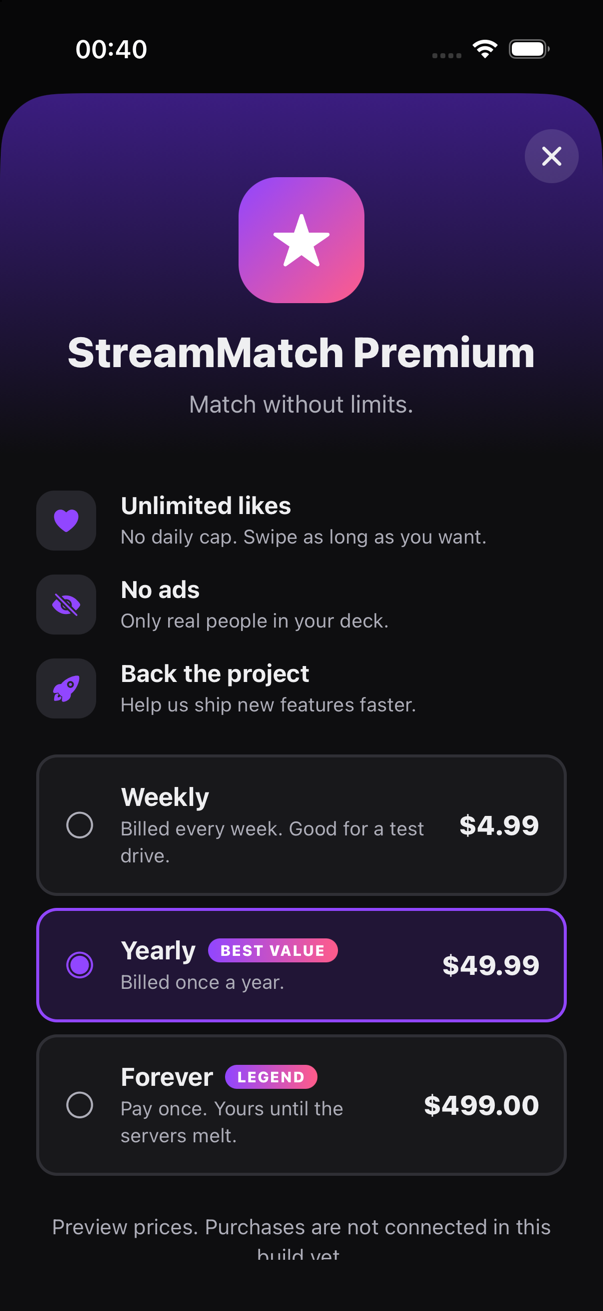
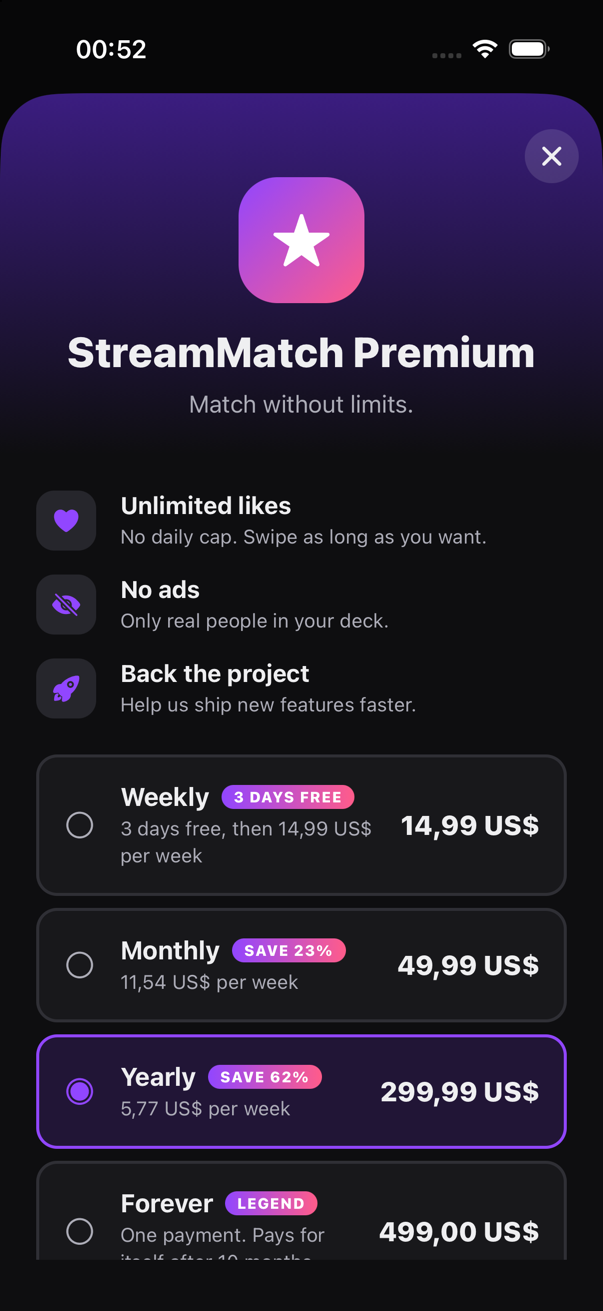
Paywall: monthly plan, computed savings and free-trial display
Plans are compared by cost per week from the store prices, the
lifetime plan shows its break-even against monthly, and a zero-price
introductory offer is shown as a free trial. Documents billing setup
and Google Play publishing.

Changed region(s): [[0.0597, 0.5797, 0.9552, 0.9764], [0.597, 0.9153, 0.8955, 0.9458], [0.1194, 0.0305, 0.2388, 0.061]]

diff --git a/src/app/paywall.tsx b/src/app/paywall.tsx
@@ -26,22 +26,91 @@ const BENEFITS = [
   { icon: 'rocket', title: 'Back the project', text: 'Help us ship new features faster.' },
 ] as const;
 
-const PLAN_COPY: Record<PlanKind, { name: string; note: string; badge?: string }> = {
-  weekly: { name: 'Weekly', note: 'Billed every week. Good for a test drive.' },
-  annual: { name: 'Yearly', note: 'Billed once a year.', badge: 'BEST VALUE' },
-  lifetime: { name: 'Forever', note: 'Pay once. Yours until the servers melt.', badge: 'LEGEND' },
-  other: { name: 'Premium', note: '' },
+const PLAN_NAMES: Record<PlanKind, string> = {
+  weekly: 'Weekly',
+  monthly: 'Monthly',
+  annual: 'Yearly',
+  lifetime: 'Forever',
+  other: 'Premium',
 };
 
 // Shown only while the store is not connected, so the screen can be reviewed.
 // Real prices always come from the App Store / Google Play.
-const PREVIEW_PLANS: Plan[] = [
-  { id: 'preview_weekly', kind: 'weekly', price: '$4.99' },
-  { id: 'preview_annual', kind: 'annual', price: '$49.99' },
-  { id: 'preview_lifetime', kind: 'lifetime', price: '$499.00' },
+const PREVIEW: [PlanKind, number, number | null][] = [
+  ['weekly', 14.99, 3],
+  ['monthly', 49.99, null],
+  ['annual', 299.99, null],
+  ['lifetime', 499, null],
 ];
 
-const ORDER: PlanKind[] = ['weekly', 'annual', 'lifetime', 'other'];
+const ORDER: PlanKind[] = ['weekly', 'monthly', 'annual', 'lifetime', 'other'];
+
+const WEEKS_PER_YEAR = 52;
+/** How many weeks one payment of a renewing plan covers. */
+const WEEKS_COVERED: Partial<Record<PlanKind, number>> = {
+  weekly: 1,
+  monthly: WEEKS_PER_YEAR / 12,
+  annual: WEEKS_PER_YEAR,
+};
+
+const RENEWS: Partial<Record<PlanKind, string>> = {
+  weekly: 'per week',
+  monthly: 'per month',
+  annual: 'per year',
+};
+
+const perWeek = (plan: Plan) => {
+  const weeks = WEEKS_COVERED[plan.kind];
+  return weeks === undefined ? null : plan.amount / weeks;
+};
+
+const money = (amount: number, currency: string) =>
+  new Intl.NumberFormat(undefined, { style: 'currency', currency }).format(amount);
+
+const PREVIEW_PLANS: Plan[] = PREVIEW.map(([kind, amount, trialDays]) => ({
+  id: `preview_${kind}`,
+  kind,
+  price: money(amount, 'USD'),
+  amount,
+  currency: 'USD',
+  trialDays,
+}));
+
+/**
+ * The small print and badge for a plan, worked out from the store prices:
+ * renewing plans are compared by cost per week against the priciest one,
+ * and the one-time plan against how long the monthly plan would take to cost the same.
+ */
+function describe(plan: Plan, plans: Plan[]): { note: string; badge?: string } {
+  if (plan.kind === 'lifetime') {
+    const monthly = plans.find((other) => other.kind === 'monthly');
+    const months = monthly ? Math.ceil(plan.amount / monthly.amount) : null;
+    return {
+      note:
+        months === null
+          ? 'One payment. No renewals, ever.'
+          : `One payment. Pays for itself after ${months} months.`,
+      badge: 'LEGEND',
+    };
+  }
+  const weekly = perWeek(plan);
+  if (weekly === null) return { note: '' };
+  const highest = Math.max(...plans.map((other) => perWeek(other) ?? 0));
+  const saving = Math.round((1 - weekly / highest) * 100);
+  if (plan.trialDays !== null) {
+    return {
+      note: `${plan.trialDays} days free, then ${plan.price} ${RENEWS[plan.kind] ?? ''}`.trim(),
+      badge: `${plan.trialDays} DAYS FREE`,
+    };
+  }
+  return {
+    note:
+      plan.kind === 'weekly'
+        ? 'Billed every week.'
+        : `${money(weekly, plan.currency)} per week`,
+    badge: saving > 0 ? `SAVE ${saving}%` : undefined,
+  };
+}
 
 const close = () => (router.canGoBack() ? router.back() : router.replace('/'));
 
@@ -148,7 +217,7 @@ export default function Paywall() {
           ) : (
             <View accessibilityRole="radiogroup" style={styles.plans}>
               {plans.map((plan) => {
-                const copy = PLAN_COPY[plan.kind];
+                const copy = describe(plan, plans);
                 const isSelected = plan.id === selected;
                 return (
                   <Pressable
@@ -164,7 +233,7 @@ export default function Paywall() {
                     />
                     <View style={styles.planText}>
                       <View style={styles.planNameRow}>
-                        <Text style={styles.planName}>{copy.name}</Text>
+                        <Text style={styles.planName}>{PLAN_NAMES[plan.kind]}</Text>
                         {copy.badge !== undefined && (
                           <LinearGradient
                             colors={GRADIENT}
@@ -203,7 +272,11 @@ export default function Paywall() {
                     <ActivityIndicator color="#fff" />
                   ) : (
                     <Text style={styles.ctaLabel}>
-                      {chosen ? `Continue · ${chosen.price}` : 'Continue'}
+                      {chosen === undefined
+                        ? 'Continue'
+                        : chosen.trialDays !== null
+                          ? `Start ${chosen.trialDays}-day free trial`
+                          : `Continue · ${chosen.price}`}
                     </Text>
                   )}
                 </LinearGradient>
@@ -222,8 +295,9 @@ export default function Paywall() {
               </Pressable>
 
               <Text style={styles.legal}>
-                Weekly and yearly plans renew automatically until cancelled. Cancel any time in your
-                store account settings. The Forever plan is a one-time purchase.
+                Weekly, monthly and yearly plans renew automatically until cancelled. Cancel any time
+                in your store account settings. A free trial becomes a paid subscription unless cancelled
+                at least 24 hours before it ends. The Forever plan is a one-time purchase.
               </Text>
             </>
           )}

diff --git a/src/lib/purchases.ts b/src/lib/purchases.ts
@@ -1,11 +1,22 @@
 import { Platform } from 'react-native';
 import Purchases, { type PurchasesPackage } from 'react-native-purchases';
 
-export type PlanKind = 'weekly' | 'annual' | 'lifetime' | 'other';
-export type Plan = { id: string; kind: PlanKind; price: string };
+export type PlanKind = 'weekly' | 'monthly' | 'annual' | 'lifetime' | 'other';
+export type Plan = {
+  id: string;
+  kind: PlanKind;
+  /** Localized price from the store, e.g. "$49.99". */
+  price: string;
+  /** The same price as a number, for comparing plans. */
+  amount: number;
+  currency: string;
+  /** Length of the free trial the store offers on this plan, if any. */
+  trialDays: number | null;
+};
 
 const KINDS: Record<string, PlanKind> = {
   WEEKLY: 'weekly',
+  MONTHLY: 'monthly',
   ANNUAL: 'annual',
   LIFETIME: 'lifetime',
 };
@@ -23,6 +34,15 @@ export const manageSubscriptionUrl = Platform.select({
   ios: 'https://apps.apple.com/account/subscriptions',
   default: 'https://play.google.com/store/account/subscriptions',
 });
+
+const DAYS_IN: Record<string, number> = { DAY: 1, WEEK: 7, MONTH: 30, YEAR: 365 };
+
+/** A free trial is an introductory offer that costs nothing. */
+function trialDaysOf(pkg: PurchasesPackage) {
+  const intro = pkg.product.introPrice;
+  if (!intro || intro.price !== 0) return null;
+  return intro.periodNumberOfUnits * (DAYS_IN[intro.periodUnit] ?? 0) || null;
+}
 
 let configured = false;
 const packages = new Map<string, PurchasesPackage>();
@@ -48,6 +68,9 @@ export async function loadPlans(): Promise<Plan[]> {
       id: pkg.identifier,
       kind: KINDS[pkg.packageType] ?? 'other',
       price: pkg.product.priceString,
+      amount: pkg.product.price,
+      currency: pkg.product.currencyCode,
+      trialDays: trialDaysOf(pkg),
     };
   });
 }

diff --git a/src/lib/purchases.web.ts b/src/lib/purchases.web.ts
@@ -1,6 +1,6 @@
 // In-app purchases only exist in the native apps.
-export type PlanKind = 'weekly' | 'annual' | 'lifetime' | 'other';
-export type Plan = { id: string; kind: PlanKind; price: string };
+export type PlanKind = 'weekly' | 'monthly' | 'annual' | 'lifetime' | 'other';
+export type Plan = { id: string; kind: PlanKind; price: string; amount: number; currency: string; trialDays: number | null };
 
 export const purchasesAvailable = false;
 export const manageSubscriptionUrl = 'https://play.google.com/store/account/subscriptions';

diff --git a/site/src/pages/Home.tsx b/site/src/pages/Home.tsx
@@ -45,7 +45,7 @@ const PLANS = [
   {
     name: 'Premium',
     tagline: 'For people who swipe a lot',
-    perks: ['Unlimited likes', 'No ads', 'Everything in Free', 'Weekly, yearly — or pay once and keep it forever'],
+    perks: ['Unlimited likes', 'No ads', 'Everything in Free', 'Weekly with a free trial, monthly, yearly — or pay once and keep it forever'],
     highlighted: true,
   },
 ]

diff --git a/docs/README.md b/docs/README.md
@@ -9,6 +9,7 @@ szukanie streamerów w okolicy, dopasowania i czat na żywo.
 - [Model danych](#model-danych)
 - [Funkcje backendu](#funkcje-backendu)
 - [Premium, limit polubień i reklamy](#premium-limit-polubień-i-reklamy)
+- [Publikacja w Google Play](#publikacja-w-google-play)
 - [Strona WWW](#strona-www)
 - [Konfiguracja](#konfiguracja)
 - [Budowanie i uruchamianie](#budowanie-i-uruchamianie)
@@ -66,15 +67,20 @@ Zrzuty z natywnej aplikacji iOS (symulator iPhone 17), na danych testowych.
 
 ### Premium i reklamy
 
-| Reklama w talii | Ekran Premium |
-|:-:|:-:|
-| <img src="images/11-ad.png" width="240"> | <img src="images/12-paywall.png" width="240"> |
-| `src/components/ad-card.tsx` | `src/app/paywall.tsx` |
+| Reklama w talii | Ekran Premium | Ekran Premium — plany |
+|:-:|:-:|:-:|
+| <img src="images/11-ad.png" width="240"> | <img src="images/12-paywall.png" width="240"> | <img src="images/13-paywall-bottom.png" width="240"> |
+| `src/components/ad-card.tsx` | `src/app/paywall.tsx` | |
 
 - **Licznik polubień** w prawym górnym rogu Discover; dotknięcie otwiera ekran Premium.
 - **Reklama** zajmuje co trzecią kartę u kont darmowych. Przesuwa się ją jak profil.
-- **Ekran Premium** — trzy plany: tygodniowy, roczny i „Forever" (jednorazowy). Ceny na zrzucie to
-  podgląd; prawdziwe zawsze pochodzą ze sklepu.
+- **Ekran Premium** — cztery plany: tygodniowy (z 3 dniami za darmo), miesięczny, roczny i
+  „Forever" (jednorazowy). Ceny na zrzucie to podgląd; prawdziwe zawsze pochodzą ze sklepu.
+- **Wyliczenia na planach** liczy aplikacja z cen ze sklepu: koszt tygodniowy każdego planu,
+  „SAVE x%" względem najdroższego planu w przeliczeniu na tydzień oraz po ilu miesiącach zwraca
+  się plan „Forever" w porównaniu z miesięcznym. Zmiana cen w sklepie sama zmienia te liczby.
+- **Darmowy okres próbny** aplikacja odczytuje ze sklepu (oferta wprowadzająca o cenie 0) i
+  pokazuje plakietkę „3 DAYS FREE" oraz przycisk „Start 3-day free trial".
 
 ## Architektura
 
@@ -223,11 +229,12 @@ a funkcje czatu dodatkowo to, czy należy on do danego dopasowania (`requireMatc
 
 1. Załóż projekt na revenuecat.com i dodaj aplikacje iOS oraz Android
    (bundle id / package: `com.jakubjakubiak.streammatch`).
-2. W App Store Connect i Google Play Console utwórz trzy produkty: subskrypcję tygodniową,
-   subskrypcję roczną i jednorazowy zakup „lifetime" (tu ustawiasz ceny, np. 499 $).
-3. W RevenueCat: entitlement o identyfikatorze **`premium`**, przypięte do niego te trzy produkty,
-   oraz offering „default" z pakietami Weekly, Annual i Lifetime. Aplikacja rozpoznaje plany po
-   typie pakietu.
+2. W App Store Connect i Google Play Console utwórz cztery produkty: subskrypcje tygodniową
+   (z darmowym okresem próbnym 3 dni jako ofertą wprowadzającą), miesięczną i roczną oraz
+   jednorazowy zakup „lifetime". Tu ustawiasz ceny, np. 14,99 / 49,99 / 299,99 / 499 $.
+3. W RevenueCat: entitlement o identyfikatorze **`premium`**, przypięte do niego te cztery
+   produkty, oraz offering „default" z pakietami Weekly, Monthly, Annual i Lifetime. Aplikacja
+   rozpoznaje plany po typie pakietu.
 4. Klucze publiczne SDK wpisz do `.env.local` i przebuduj aplikację:
 
    ```
@@ -258,6 +265,21 @@ npx convex run billing:grantPremium '{"userId": "<id użytkownika>", "days": 0}'
 
 Dopóki klucze SDK nie są ustawione, ekran Premium pokazuje przykładowe ceny z dopiskiem
 „Preview prices", a przycisk zakupu jest nieaktywny.
+
+## Publikacja w Google Play
+
+Google nie udostępnia własnego serwera MCP do Google Play. Istnieją tylko projekty
+społeczności, które wymagają pełnego klucza konta usługi do konsoli Play — nie zostały dodane.
+
+Publikację można zautomatyzować oficjalnym API (Android Publisher) przez Gradle Play Publisher
+albo fastlane. Do tego potrzebne są rzeczy, które zakłada się ręcznie:
+
+1. Konto dewelopera Google Play i utworzona w konsoli aplikacja `com.jakubjakubiak.streammatch`.
+2. Klucz podpisujący (upload keystore) i konfiguracja podpisu wersji release w `android/app/build.gradle`.
+3. Pierwszy plik `.aab` wgrany ręcznie w konsoli — API nie potrafi utworzyć pierwszego wydania.
+4. Konto usługi Google Cloud z dostępem do konsoli Play i jego klucz JSON (poza repozytorium).
+
+Po tych krokach jedno polecenie buduje i wysyła nową wersję na ścieżkę testów wewnętrznych.
 
 ## Strona WWW
 
